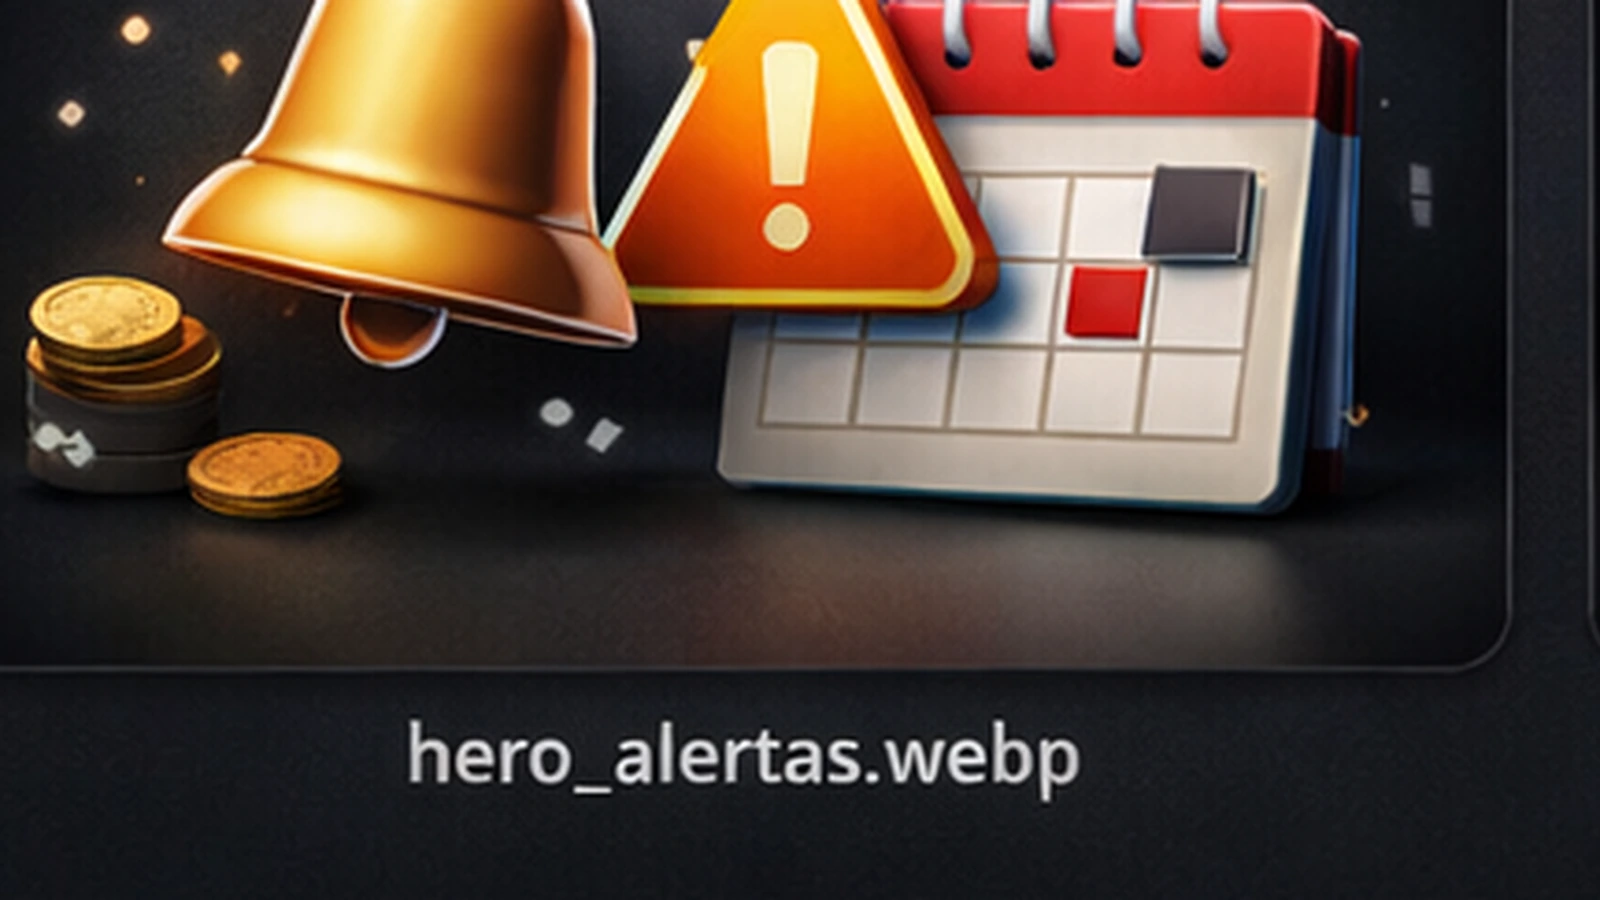
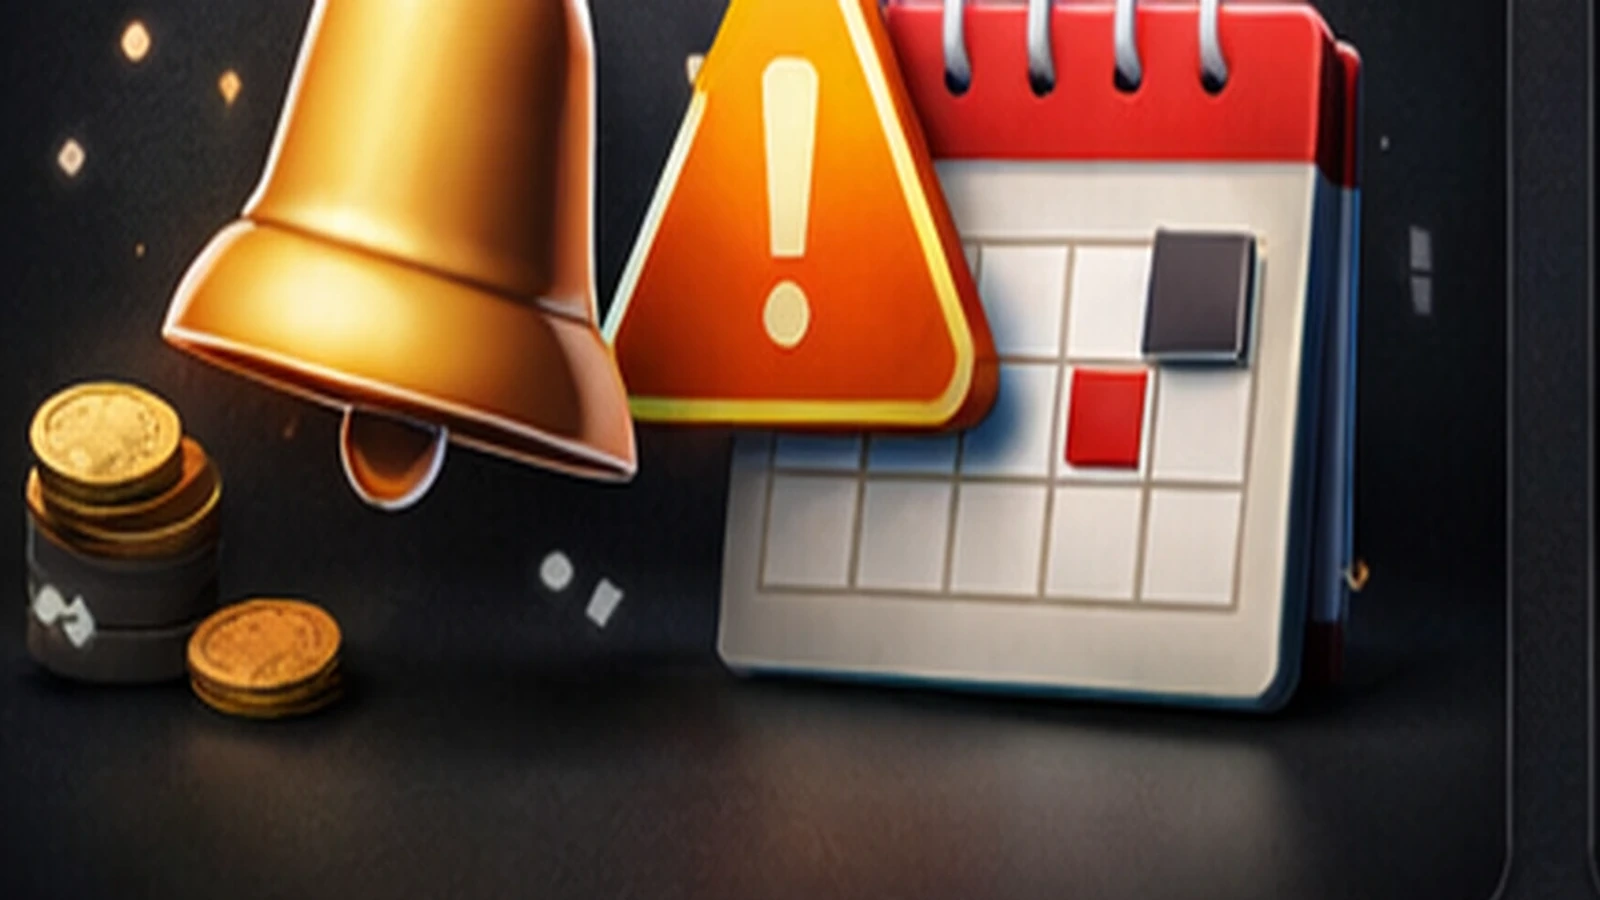
herosfix

diff --git a/styles.css b/styles.css
@@ -123,6 +123,15 @@ body{
   display:none;
 }
 
+/* Tablet/desktop: keep HERO as a compact banner (avoid 16:9 dominating height on iPad) */
+@media (min-width: 768px){
+  .hero-frame{
+    aspect-ratio: auto;
+    height: clamp(160px, 22vh, 240px);
+  }
+}
+
+
 .hero-fallback{
   position:absolute;
   inset:0;

diff --git a/sw.js b/sw.js
@@ -1,5 +1,5 @@
 /* BALANZA GM — SW v1.0.0 Etapa 10 */
-const CACHE_NAME = 'balanzagm-v1.0.0-etapa10-hotfix-bootfix-1';
+const CACHE_NAME = 'balanzagm-v1.0.0-hero-fix-sw-20260218-01';
 const ASSETS = [
   './',
   './index.html',
